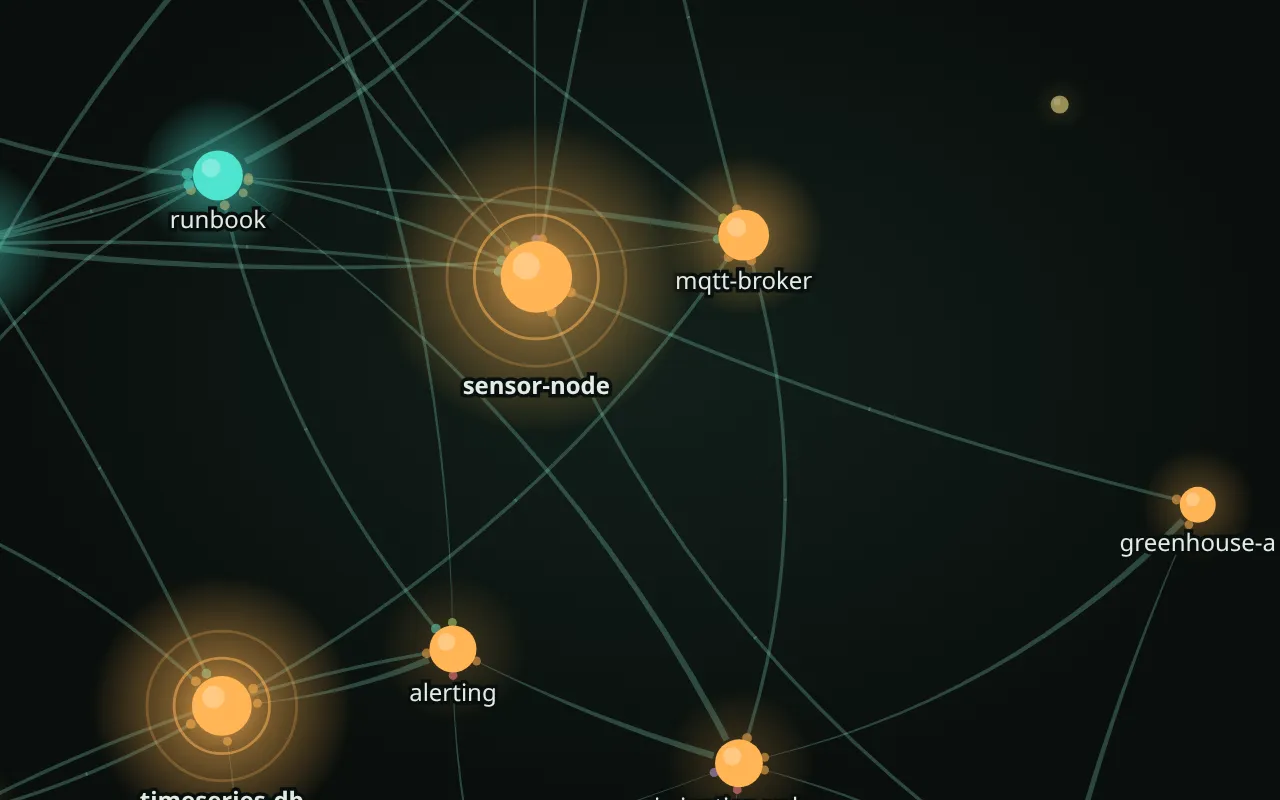
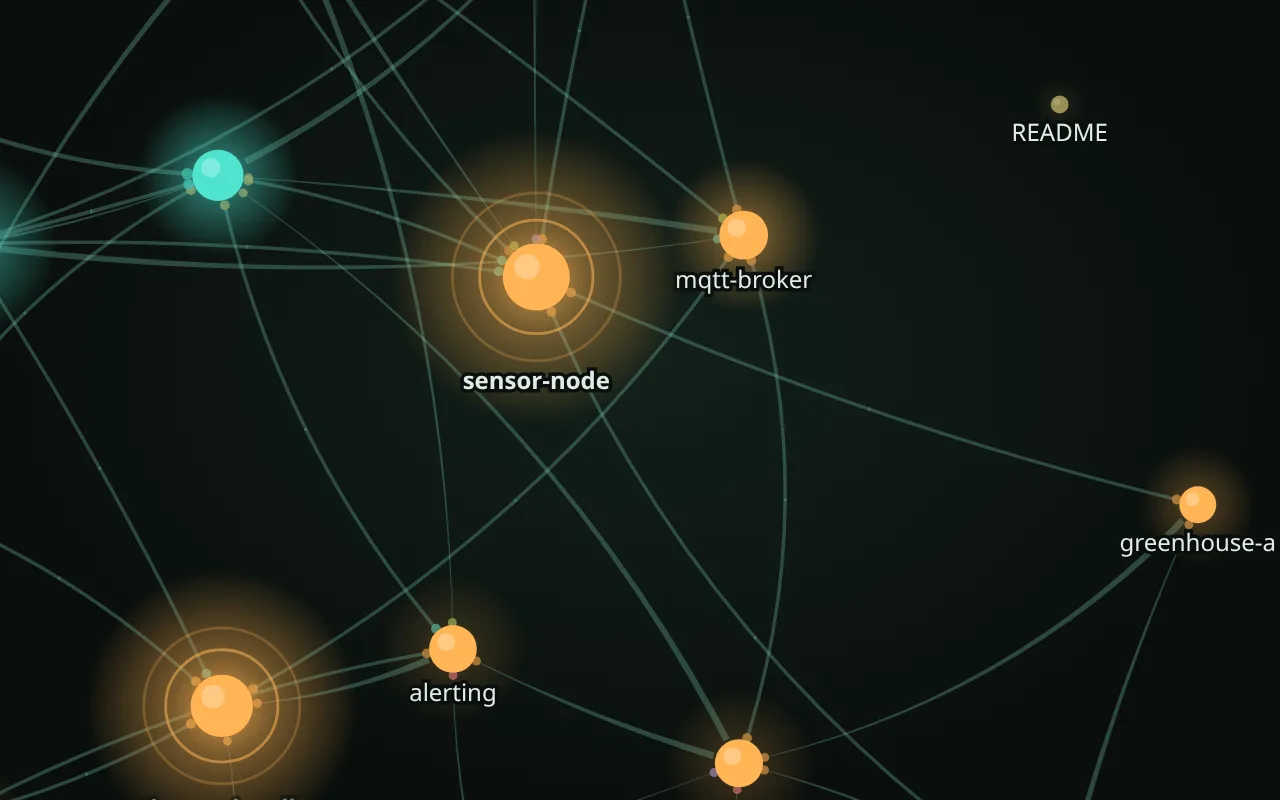
0.10.3: labels in the mycelium view take turns
Names used to show on the hubs for ever and, zoomed in, on every larger
note. Now a few notes are named at a time (about the square root of the
notes in view, more when zoomed in past the fitted view); names fade in one
by one with a small rise, stay about 7 s, fade out and rest 25 s. Hubs,
well-mentioned and recently changed notes come up more often; names avoid
each other and the panels. A selection limits the turns to its neighbours.
Hover, selection and search matches are named at once. README stills
retaken; a native.py check covers it.

diff --git a/skills/myco-notes/tools/graph-template.html b/skills/myco-notes/tools/graph-template.html
@@ -212,7 +212,7 @@ function fitTarget(soft){
   var nk=Math.max(.15,Math.min(2.2,Math.min((W-padX)/bw,(H-padY)/bh))),nx=(x0+x1)/2-(wide?171/nk:0),ny=(y0+y1)/2;   /* centre the network in the space right of the left column */
   /* soft (during a replay): ignore small changes of the bounding box, so one node drifting at the edge does not make the whole picture breathe */
   if(soft&&cam.fit&&Math.abs(nk-cam.tk)/cam.tk<.07&&Math.hypot(nx-cam.tx,ny-cam.ty)*cam.tk<30)return;
-  cam.tk=nk;cam.tx=nx;cam.ty=ny;cam.fit=true;
+  cam.tk=nk;cam.tx=nx;cam.ty=ny;cam.fit=true;cam.fk=nk;
 }
 
 /* ---------- drawing ---------- */
@@ -288,9 +288,54 @@ function hypha(e,w,grow,col,tipA){
     if(end){cx.fillStyle="rgba("+budRGB(e.dir>0?e.a:e.b)+","+tipA+")";tip(end,tr)}
   }
 }
-function label(txt,x,y,bold){
-  cx.font=(bold?"600 ":"")+"12px system-ui,Segoe UI,sans-serif";cx.textAlign="center";cx.lineWidth=3.5;cx.strokeStyle=T.halo;cx.fillStyle=T.text;
-  cx.strokeText(txt,x,y);cx.fillText(txt,x,y);
+function label(txt,x,y,bold,a){
+  cx.globalAlpha=a;cx.font=(bold?"600 ":"")+"12px system-ui,Segoe UI,sans-serif";cx.textAlign="center";cx.lineWidth=3.5;cx.strokeStyle=T.halo;cx.fillStyle=T.text;
+  cx.strokeText(txt,x,y);cx.fillText(txt,x,y);cx.globalAlpha=1;
+}
+
+/* ---------- labels ----------
+   A few notes carry their name at a time and take turns, like spores catching the light: one label fades in about every
+   second until the slots are full, each stays about 7 s, fades out, and a note that was just named waits ~25 s before it is
+   picked again. Well-mentioned, hub and recently changed notes are picked more often; a label never lands on another one.
+   With a note selected, only its neighbours take turns (all of them stay, when they fit in the slots). Zoomed in past the
+   fitted view there are more slots. The hovered and the selected note and search matches are always named. */
+var LDWELL=reduce?11000:7000,LFADE=reduce?1:1400,LGAP=reduce?0:1100,lastAdd=-1e9,spotFor=-2;
+NODES.forEach(function(n){n.la=0;n.lt=0;n.lu=0;n.ls=-1e9});
+function forced(n){return n.i===hov||n.i===sel||(match&&match[n.i])}
+function onScreen(n){var x=sx(n.x),y=sy(n.y);return x>24&&x<W-24&&y>24&&y<H-24}
+function slotCount(pool){   /* about the square root of the notes in view; zoomed in past the fitted view, up to three times more */
+  var z=Math.max(1,Math.min(3,cam.k/(cam.fk||cam.k))),b=sel>=0?8:Math.round(Math.sqrt(pool)*.9*z);if(W<640)b--;return Math.max(2,Math.min(sel>=0?8:16,b))}
+function lrad(n){return n.r*Math.max(.7,Math.min(1.6,cam.k))}
+function lbox(n){var w=n.name.length*6.6-14,x=sx(n.x),y=sy(n.y)+lrad(n)*(n.hub?2.5:1)+14;return [x-w/2-8,y-13,x+w/2+8,y+5]}
+function overlaps(b,c){return b[0]<c[2]&&c[0]<b[2]&&b[1]<c[3]&&c[1]<b[3]}
+function updateLabels(now,dt){
+  var fresh0=sel!==spotFor;
+  if(fresh0){spotFor=sel;NODES.forEach(function(n){n.ls=-1e9});lastAdd=-1e9}   /* a new focus: every note may be named again, and the names come quicker */
+  var pool=NODES.filter(function(n){return n.vis&&n.ap>=1&&n.i!==sel&&(sel<0||adj[sel].some(function(m){return m.n===n}))&&dim(n)>.5});
+  var ui=[];document.querySelectorAll(".box").forEach(function(el){   /* names stay clear of the search, timeline, tools and detail panel */
+    if(el.hidden)return;var r=el.getBoundingClientRect();if(r.width&&r.height)ui.push([r.left,r.top,r.right,r.bottom])});
+  var S=slotCount(pool.filter(onScreen).length),keep=pool.length<=S,on=0;
+  NODES.forEach(function(n){   /* a name outside the new neighbourhood, past its time, or now under a panel fades out; one that still belongs stays */
+    if(n.lt&&((!keep&&now>n.lu)||pool.indexOf(n)<0||ui.some(function(u){return overlaps(lbox(n),u)}))){n.lt=0;n.ls=now}
+    if(n.lt)on++;
+  });
+  if(on<S&&now-lastAdd>=(sel>=0?LGAP*.4:LGAP)){
+    var boxes=NODES.filter(function(n){return n.vis&&(n.la>.05||n.lt||forced(n))}).map(lbox).concat(ui);
+    var cand=pool.filter(function(n){return !n.lt&&!forced(n)&&n.la<.05&&onScreen(n)});
+    var fresh=cand.filter(function(n){return now-n.ls>25000});   /* rested notes first; in a small neighbourhood, the longest-rested */
+    if(fresh.length)cand=fresh;else{cand=cand.filter(function(n){return now-n.ls>3000}).sort(function(a,b){return a.ls-b.ls}).slice(0,3)}
+    for(var tries=0;tries<10&&cand.length;tries++){
+      var ws=cand.map(function(n){return 1+Math.sqrt(n.in)*1.2+(n.hub?3:0)+recency(n)*2}),sum=ws.reduce(function(a,b){return a+b},0),r=Math.random()*sum,k=0;
+      while(k<cand.length-1&&(r-=ws[k])>0)k++;
+      var c=cand[k],b=lbox(c);
+      if(!boxes.some(function(o){return overlaps(b,o)})){c.lt=1;c.lu=now+LDWELL*(sel>=0?1.4:1)+Math.random()*1500;lastAdd=now;break}
+      cand.splice(k,1);
+    }
+  }
+  NODES.forEach(function(n){   /* fade towards the target; a hovered or selected note is named at once */
+    var f=forced(n),tg=n.lt||f?1:0;if(n.la===tg)return;
+    var st=dt/(f?220:LFADE);n.la=tg>n.la?Math.min(1,n.la+st):Math.max(0,n.la-st);
+  });
 }
 function draw(now){
   cx.setTransform(DPR,0,0,DPR,0,0);cx.clearRect(0,0,W,H);
@@ -322,8 +367,7 @@ function draw(now){
     if(n.due){cx.setLineDash([2,3]);cx.strokeStyle=T.wilt;cx.lineWidth=1.2;cx.beginPath();cx.arc(x,y,r+3.5,0,6.3);cx.stroke();cx.setLineDash([])}
     if(n.miss&&(cam.k>.7||focus===n.i)){var ang=hash(n.i+9)*6.28,x2=x+Math.cos(ang)*(r+13),y2=y+Math.sin(ang)*(r+13);cx.setLineDash([2,2]);cx.strokeStyle=T.wilt;cx.lineWidth=1;cx.beginPath();cx.moveTo(x+Math.cos(ang)*r,y+Math.sin(ang)*r);cx.lineTo(x2,y2);cx.stroke();cx.setLineDash([]);cx.fillStyle=T.wilt;cx.font="10px system-ui";cx.textAlign="center";cx.fillText("?",x2+Math.cos(ang)*4,y2+Math.sin(ang)*4+3)}
     cx.globalAlpha=1;
-    var showLabel=n.hub||n.i===hov||n.i===sel||(match&&match[n.i])||(cam.k>1.5&&n.r>5);
-    if(showLabel&&d>.5)label(n.name.replace(/\.md$/,""),x,y+r*(n.hub?2.5:1)+14,n.hub||n.i===sel);
+    if(n.la>.01&&d>.5){var la=n.la*n.la*(3-2*n.la);label(n.name.replace(/\.md$/,""),x,y+r*(n.hub?2.5:1)+14+(1-la)*5,n.hub||n.i===sel,la)}   /* a name rises a few pixels as it fades in */
   });
   /* ripples: a new or changed note lets out a ring */
   ripples=ripples.filter(function(rp){return t-rp.t<1100});
@@ -349,6 +393,7 @@ function frame(now){
   if(alpha>0){tick();if(!playing)tick()}
   if(autoFit)fitTarget(playing);
   var k=playing?.045:.1;cam.x+=(cam.tx-cam.x)*k;cam.y+=(cam.ty-cam.y)*k;cam.k+=(cam.tk-cam.k)*k;
+  updateLabels(now,dt);
   draw(now);
   requestAnimationFrame(frame);
 }

diff --git a/tests/native.py b/tests/native.py
@@ -164,6 +164,7 @@ def main():
               str(g["edges"][:8]))
         check("the threads are drawn with a direction", "e.dir" in h and "Mentioned by" in h)
         check("on a phone the detail panel opens as a strip with More", "panelFull" in h and '#panel.min' in h and '"More"' in h)
+        check("labels take turns (rotation, fades, neighbourhood of a selection)", "updateLabels" in h and "slotCount" in h and "LDWELL" in h and "n.hub||n.i===hov" not in h)
         check("two fingers pinch to zoom, and a bud has its source's colour", "pinch" in h and "pointercancel" in h and "budRGB(e.dir>0?e.a:e.b)" in h)
         check("a missing reference is shown", gn is not None and gn.get("miss") == ["no-such-note.md"], str(gn))
         check("the history is replayed across a rename", gn is not None and gn["b"] < gn["l"] and len(g["commits"]) >= 3 and g["commits"][gn["b"]]["s"].startswith("Add a note for the graph test"), str((gn, [c["s"] for c in g["commits"]])))

diff --git a/README.md b/README.md
@@ -136,8 +136,9 @@ python3 <kit>/tools/relocate.py --root ~/projects/old-notes --apply    # then re
 
 *Screenshots of a made-up demo tree ("Greenhouse Sensors"), built by `examples/demo/build_demo.py`; the same tree is the [live demo](https://luzianme.github.io/myco-notes/graph.html), rebuilt from `main` on every change to the kit.*
 
-- **Notes are nodes, mentions are hyphae**: the threads are the same file-name mentions the map uses for backlinks. Notes with many backlinks are bigger, and the few most-mentioned notes of the project are its hubs (two soft rings and a label, chosen by mentions; the entry and method notes every tree has are never hubs); each group of notes is a color and clusters into a colony; history folders (`archive/`, `logs/`) sit dimmed at the edge.
+- **Notes are nodes, mentions are hyphae**: the threads are the same file-name mentions the map uses for backlinks. Notes with many backlinks are bigger, and the few most-mentioned notes of the project are its hubs (two soft rings, chosen by mentions; the entry and method notes every tree has are never hubs); each group of notes is a color and clusters into a colony; history folders (`archive/`, `logs/`) sit dimmed at the edge.
 - **Threads have a direction**: a hypha grows out of the note that writes the mention, broad at its base, and thins toward the note it names, where it ends in a small bud on the rim, in the colour of the note it came from (a shade darker on the dark theme, lighter on the light one), so you can tell where a thread starts without following it. Two notes that mention each other share an even thread with a bud at both ends. While a thread is lit, sap flows the same way, and during a replay a new thread grows along its length instead of fading in.
+- **Names take turns**: a few notes carry their name at a time and hand it on, one fading in about every second and each staying about 7 seconds, so over a minute you see most of the network named without clutter. Well-mentioned, hub and recently changed notes come up more often, names never overlap each other or the panels, and zooming in brings more of them. With a note selected, only its neighbours take turns (all of them, when they fit). The hovered and selected note and search matches are always named.
 - **Health you can see**: recently changed notes glow; notes with passed follow-up dates wilt (amber, dashed ring); a reference to a note that does not exist ends in a dashed stub with a `?`; a note nobody mentions drifts alone like a spore.
 - **Timeline replay**: press Replay (or Space) and the network grows commit by commit from the first commit to now; renames are followed, new and changed notes let out a ring. Drag the slider to jump anywhere in the history. `graph.html#replay` starts the replay on its own, handy for recording a clip.
 - **Explore**: hover to light up a note's threads, click for its details (mentions and mentioned by, each with its own list of notes, last change, follow-ups, missing references) and a link to its map page, search with Enter to fly to a match, click a group in the legend to hide it, wheel or pinch with two fingers to zoom, drag to pan, double-click or Fit to see everything, Theme for light and dark (it follows the system by default).

diff --git a/CHANGELOG.md b/CHANGELOG.md
@@ -1,5 +1,9 @@
 # Changelog
 
+## 0.10.3
+- **Mycelium view, labels take turns**: names used to show only on the hubs (for ever) and, zoomed in, on every larger note. Now a few notes carry their name at a time (about the square root of the notes in view, more when zoomed in past the fitted view): one fades in about every second with a small rise, each stays about 7 s and fades out, and a note that was just named rests for 25 s. Hubs, well-mentioned and recently changed notes are picked more often; a name never lands on another one or under the search, timeline, tools or detail panel, and fades out if the camera moves it under one. With a note selected, only its neighbours take turns, faster, and the ones already named stay. Hover, selection and search matches are named at once. With reduced motion the names switch without fading, every 11 s.
+- README stills retaken.
+
 ## 0.10.2
 - **Mycelium view, phone panel**: on a phone, selecting a note opens a small strip at the bottom (the title on one line, links out and in, any warning, Open and More) instead of a panel that covered most of the screen. More (or a tap on the title) shows the full details and the lists; Less shrinks it again, and the choice is kept while the page is open. The desktop panel is unchanged.
 

diff --git a/skills/myco-notes/SKILL.md b/skills/myco-notes/SKILL.md
@@ -4,7 +4,7 @@ description: Keep a project's knowledge in a versioned, secret-free, cross-refer
 license: Apache-2.0
 compatibility: Needs git and python 3.8+ (Linux, macOS, Windows). rsync and ssh only for a remote-host mirror. Agent-neutral; any coding agent that reads SKILL.md or AGENTS.md can use it.
 metadata:
-  version: "0.10.2"
+  version: "0.10.3"
 ---
 
 # Myco Notes
